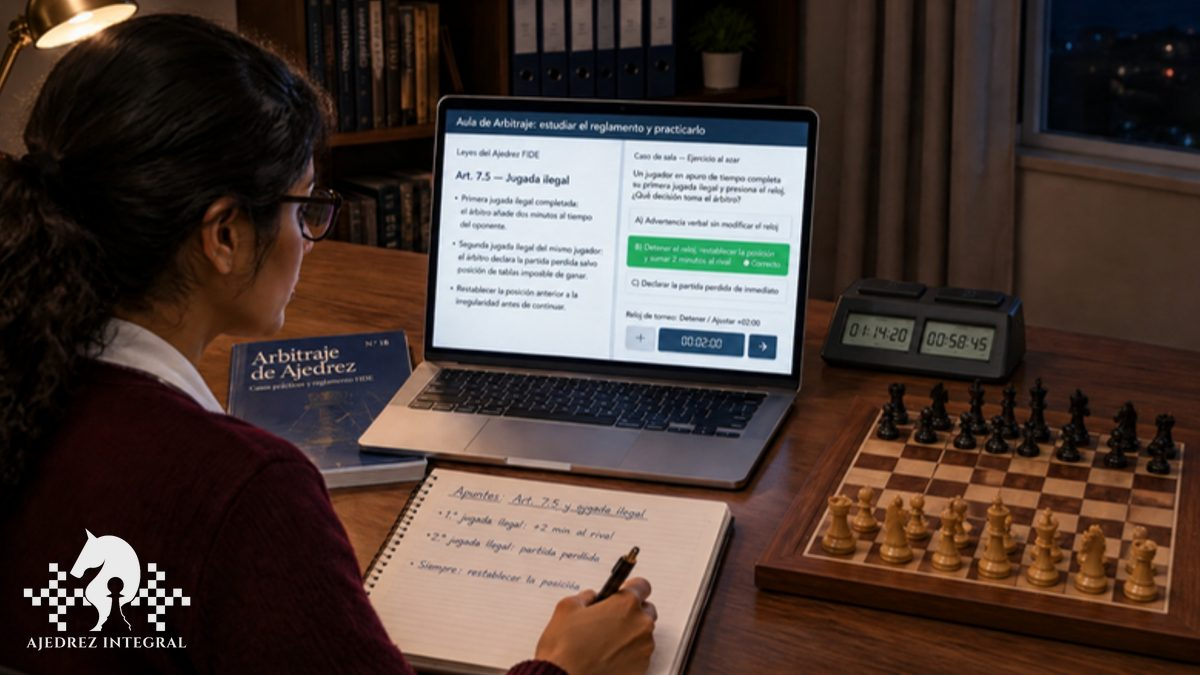
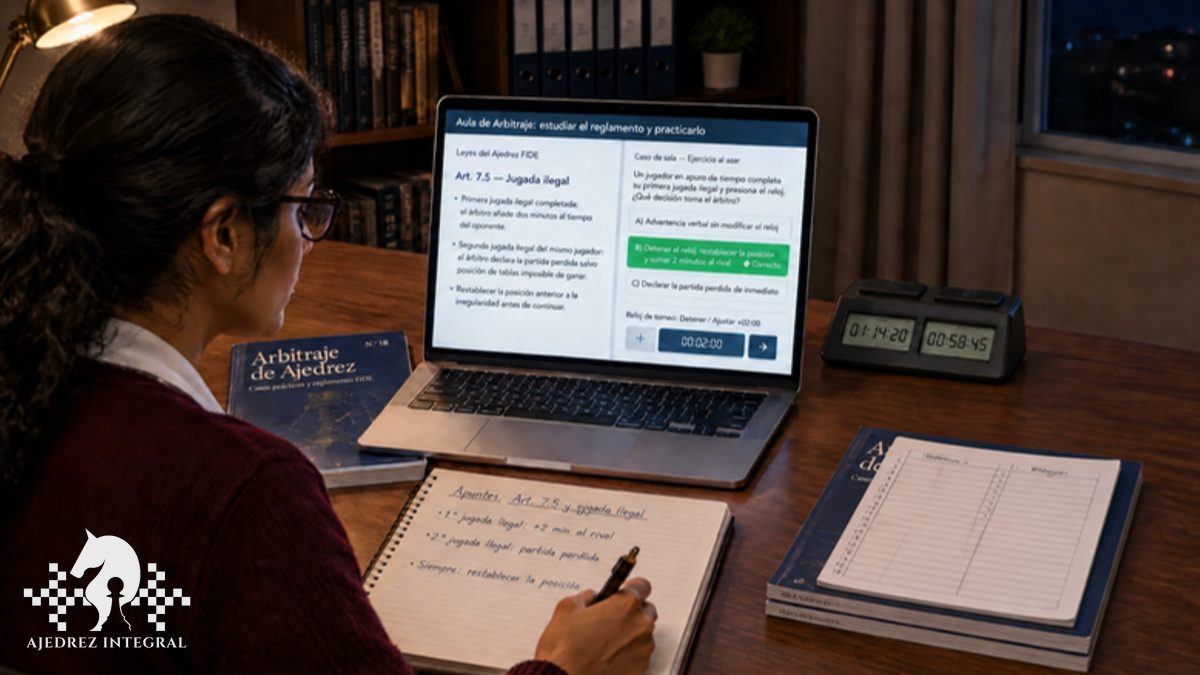
Herramientas: foto para Acta e informe JDE y Aula sin tablero
JDE: el informe arbitral, el medallero y los clasificados, con el acta
impresa y las medallas; el medallero se rehízo para que cada color sume
lo mismo (10 categorías). Aula: se quitó el tablero, que Canva dibujaba
con 7 columnas; en su lugar, revistas y una planilla.

diff --git a/js/herramientas-arbitraje.js b/js/herramientas-arbitraje.js
@@ -491,7 +491,7 @@
             disponible: true,
             imagen: {
                 src: "img/herramientas/aula-arbitraje.jpg", ancho: 1200, alto: 675,
-                alt: "Una árbitra estudia de noche con el Aula de Arbitraje: en la laptop, la ficha del artículo 7.5 (jugada ilegal) y al lado un caso de sala con la respuesta correcta marcada; sobre el escritorio, la revista Arbitraje de Ajedrez, sus apuntes, un reloj digital y un tablero en la posición inicial.",
+                alt: "Una árbitra estudia de noche con el Aula de Arbitraje: en la laptop, la ficha del artículo 7.5 (jugada ilegal) y al lado un caso de sala con la respuesta correcta marcada; sobre el escritorio, la revista Arbitraje de Ajedrez, sus apuntes, un reloj digital y una pila de revistas con una planilla encima.",
             },
             resumen: "Fichas de estudio del reglamento de FIDE vigente y, al lado, la práctica: preguntas, ejercicios al azar, casos de sala con su decisión y un reloj de ajedrez que se detiene y se ajusta como en el torneo. Con tu licencia, en tu computadora.",
             puntos: [
@@ -512,6 +512,10 @@
             corto: "Acta e informe JDE",
             href: "acta-jde.html",
             disponible: true,
+            imagen: {
+                src: "img/herramientas/acta-jde.jpg", ancho: 1200, alto: 675,
+                alt: "La mesa del árbitro al final de una etapa de los Juegos Deportivos Estudiantiles: la laptop con el informe arbitral, el medallero por centro educativo y los clasificados a la etapa nacional; al lado, el acta impresa con las firmas del árbitro principal y del adjunto, y tres medallas; al fondo, estudiantes celebrando.",
+            },
             resumen: "Para una etapa de los JDE dirigida con Swiss-Manager: pega los enlaces de chess-results y baja el informe oficial de participación y resultados, listo para firmar, con los clasificados a la etapa siguiente.",
             puntos: [
                 "El mismo informe oficial de Pareo Integral: la participación por centro educativo, la clasificación oficial de chess-results, el cuadro cruzado, las ausencias, el medallero por centro, las incidencias y las firmas.",

diff --git a/docs/decisiones/juegos-y-torneos.md b/docs/decisiones/juegos-y-torneos.md
@@ -11989,8 +11989,8 @@ Cómo está armado, y por qué:
   `esperado`, y rehace con `ajuste.js` la solución recomendada y la de horario
   de cada caso con `calculo` (al segundo).
 - **Los números 2 al 18 de la revista** (pedido del dueño: «hacer lo mismo que con la 1») van en `js/aula-arbitraje/contenido-revistas.js`, que carga después de `contenido.js` y suma a `AULA_CONTENIDO` sus colecciones, fichas, preguntas y casos (80 fichas, 535 preguntas, 30 casos de decisión, sin reloj). Cada número se revisó contra la normativa vigente en noviembre de 2026, igual que el N.º 1, con sus erratas corregidas y los autores originales respetados; las revistas en PDF (con la marca de agua y el crédito de IA Oscar Angulo Cubero) no viven en el repositorio. Un id repetido entre números se distingue con el sufijo del número (`posicion-muerta-n14`). `verificar-aula-arbitraje.js` revisa además que las colecciones sean las 18 en orden, que ningún id se repita, que la respuesta de cada caso exista y que ningún contenido traiga HTML activo.
-- **La tarjeta de la vitrina lleva imagen**: `img/herramientas/aula-arbitraje.jpg`, 1200 × 675 como las demás. Primero fue una ilustración armada en HTML con las fuentes y los colores del sitio (lo pidió el dueño: «una imagen moderna y bonita»); después el dueño pidió una foto como las de las otras tarjetas: una árbitra estudia con la laptop (la ficha del art. 7.5, jugada ilegal, y un caso de sala con la respuesta correcta: detener el reloj, restablecer la posición y sumar 2 minutos al rival, como dice el art. 7.5.3), la revista, sus apuntes y un tablero en la posición inicial. La generó Canva; el tablero y los apuntes del cuaderno salieron mal la primera vez (una torre negra entre las blancas, palabras sin sentido) y se le pidió corregirlos. Lleva la marca de agua de Ajedrez Integral.
-- **Las tarjetas de «Pareo Integral», «Mesa del árbitro», «Pareo para DGT», «Bases del torneo», «Árbitros de Costa Rica», «Normas de título» y «Desempates explicados» también llevan foto** (pedido del dueño: «una imagen que represente su contenido»): `img/herramientas/pareo-integral.jpg` (la laptop con el pareo de la ronda y la clasificación con desempates, y el pareo impreso en la pizarra), `img/herramientas/mesa-arbitro.jpg` (la tablet con las mesas de la ronda abierta y la bitácora con su hora, y la bitácora impresa con el espacio para la firma), `img/herramientas/pareo-dgt.jpg` (la pareja de jugadores de la foto de Notara, con el tablero electrónico entre los dos, la laptop con el pareo listo y la pantalla grande con la partida en vivo, sin logotipos de marcas; la primera versión, hecha de cero, ponía el tablero de lado y las piezas revueltas, así que el dueño pidió partir de los jugadores de Notara), `img/herramientas/bases-torneo.jpg` (la laptop con el formulario y la vista previa de las bases, y las bases impresas con el calendario de rondas y la línea para la firma), `img/herramientas/arbitros-cr.jpg` (el avatar del profe Oscar, pose «presentando», señalando la pantalla con la lista de árbitros; el dueño pidió que saliera él), `img/herramientas/normas-titulo.jpg` (la laptop con una norma de GM, una de IM y una a la que le faltó medio punto, con números que sí cumplen o no el reglamento: 2380 de promedio y 2615 de rendimiento para la de GM, 2265 y 2460 para la de IM, y el rendimiento de 2345 marcado con ✗ porque no llega a 2450; Canva traía el encabezado con letras revueltas, números sueltos y ese rendimiento con ✓, y se corrigieron encima) y `img/herramientas/desempates.jpg` («¿Por qué Ana queda arriba de Luis?»: 6 puntos cada uno, tablas entre ellos y el Buchholz corte 1 que los distingue, 30,5 contra 29,5, desglosado ronda por ronda; Canva puso a Ana, primera con 6, contra rivales de 6,5 y 7, que la habrían superado, así que se pusieron encima rivales de 2 a 6 puntos y se recalcularon el Buchholz, el Sonneborn-Berger, 27,25 contra 25,75, y la hoja impresa, donde Tomás y Lucía tienen los mismos 5,5 que en la pantalla). Las generó Canva a 2720 × 1530 y se llevaron a 1200 × 675 con la marca de agua de Ajedrez Integral en blanco, en la esquina oscura de cada foto. En la de árbitros, Canva hizo solo el fondo: el avatar es el PNG original de `herramientas/avatar-profe-oscar/originales/presentando.png` pegado encima sin tocarlo (Canva lo redibuja distinto), las siglas de la pantalla se cambiaron a las de español (AI, AF, AN; Canva las puso en inglés) y la marca va en azul marino, en la pared libre, porque el fondo es claro. Los textos de las pantallas son de adorno: nombres y números inventados, como en la de Notara.
+- **La tarjeta de la vitrina lleva imagen**: `img/herramientas/aula-arbitraje.jpg`, 1200 × 675 como las demás. Primero fue una ilustración armada en HTML con las fuentes y los colores del sitio (lo pidió el dueño: «una imagen moderna y bonita»); después el dueño pidió una foto como las de las otras tarjetas: una árbitra estudia con la laptop (la ficha del art. 7.5, jugada ilegal, y un caso de sala con la respuesta correcta: detener el reloj, restablecer la posición y sumar 2 minutos al rival, como dice el art. 7.5.3), la revista, sus apuntes y una pila de revistas con una planilla. La generó Canva; **no lleva tablero a propósito**: Canva no logró dibujar uno bien (primero una torre negra entre las blancas, después 7 columnas y casillas repetidas, que el dueño notó), así que se le pidió quitarlo. Los apuntes del cuaderno también salieron sin sentido la primera vez y se corrigieron. Lleva la marca de agua de Ajedrez Integral.
+- **Las tarjetas de «Pareo Integral», «Mesa del árbitro», «Pareo para DGT», «Bases del torneo», «Árbitros de Costa Rica», «Normas de título», «Desempates explicados» y «Acta e informe JDE» también llevan foto** (pedido del dueño: «una imagen que represente su contenido»): `img/herramientas/pareo-integral.jpg` (la laptop con el pareo de la ronda y la clasificación con desempates, y el pareo impreso en la pizarra), `img/herramientas/mesa-arbitro.jpg` (la tablet con las mesas de la ronda abierta y la bitácora con su hora, y la bitácora impresa con el espacio para la firma), `img/herramientas/pareo-dgt.jpg` (la pareja de jugadores de la foto de Notara, con el tablero electrónico entre los dos, la laptop con el pareo listo y la pantalla grande con la partida en vivo, sin logotipos de marcas; la primera versión, hecha de cero, ponía el tablero de lado y las piezas revueltas, así que el dueño pidió partir de los jugadores de Notara), `img/herramientas/bases-torneo.jpg` (la laptop con el formulario y la vista previa de las bases, y las bases impresas con el calendario de rondas y la línea para la firma), `img/herramientas/arbitros-cr.jpg` (el avatar del profe Oscar, pose «presentando», señalando la pantalla con la lista de árbitros; el dueño pidió que saliera él), `img/herramientas/normas-titulo.jpg` (la laptop con una norma de GM, una de IM y una a la que le faltó medio punto, con números que sí cumplen o no el reglamento: 2380 de promedio y 2615 de rendimiento para la de GM, 2265 y 2460 para la de IM, y el rendimiento de 2345 marcado con ✗ porque no llega a 2450; Canva traía el encabezado con letras revueltas, números sueltos y ese rendimiento con ✓, y se corrigieron encima), `img/herramientas/desempates.jpg` («¿Por qué Ana queda arriba de Luis?»: 6 puntos cada uno, tablas entre ellos y el Buchholz corte 1 que los distingue, 30,5 contra 29,5, desglosado ronda por ronda; Canva puso a Ana, primera con 6, contra rivales de 6,5 y 7, que la habrían superado, así que se pusieron encima rivales de 2 a 6 puntos y se recalcularon el Buchholz, el Sonneborn-Berger, 27,25 contra 25,75, y la hoja impresa, donde Tomás y Lucía tienen los mismos 5,5 que en la pantalla) y `img/herramientas/acta-jde.jpg` (la laptop con el informe arbitral, el medallero por centro educativo y los clasificados, el acta impresa con las firmas y tres medallas; Canva puso un medallero imposible, 33 oros, 25 platas y 20 bronces, y un «Liceo de la Queen», así que la pantalla y las dos tablas del acta se rehicieron encima para 10 categorías: 10 medallas de cada color). Las generó Canva a 2720 × 1530 y se llevaron a 1200 × 675 con la marca de agua de Ajedrez Integral en blanco, en la esquina oscura de cada foto. En la de árbitros, Canva hizo solo el fondo: el avatar es el PNG original de `herramientas/avatar-profe-oscar/originales/presentando.png` pegado encima sin tocarlo (Canva lo redibuja distinto), las siglas de la pantalla se cambiaron a las de español (AI, AF, AN; Canva las puso en inglés) y la marca va en azul marino, en la pared libre, porque el fondo es claro. Los textos de las pantallas son de adorno: nombres y números inventados, como en la de Notara.
 - **El avance se guarda solo en el aparato** (`localStorage`,
   `aula_arbitraje_avance_v1`): es una comodidad para quien practica, no una
   nota; no se le muestra a nadie más. Si el dueño quiere que un profesor vea
